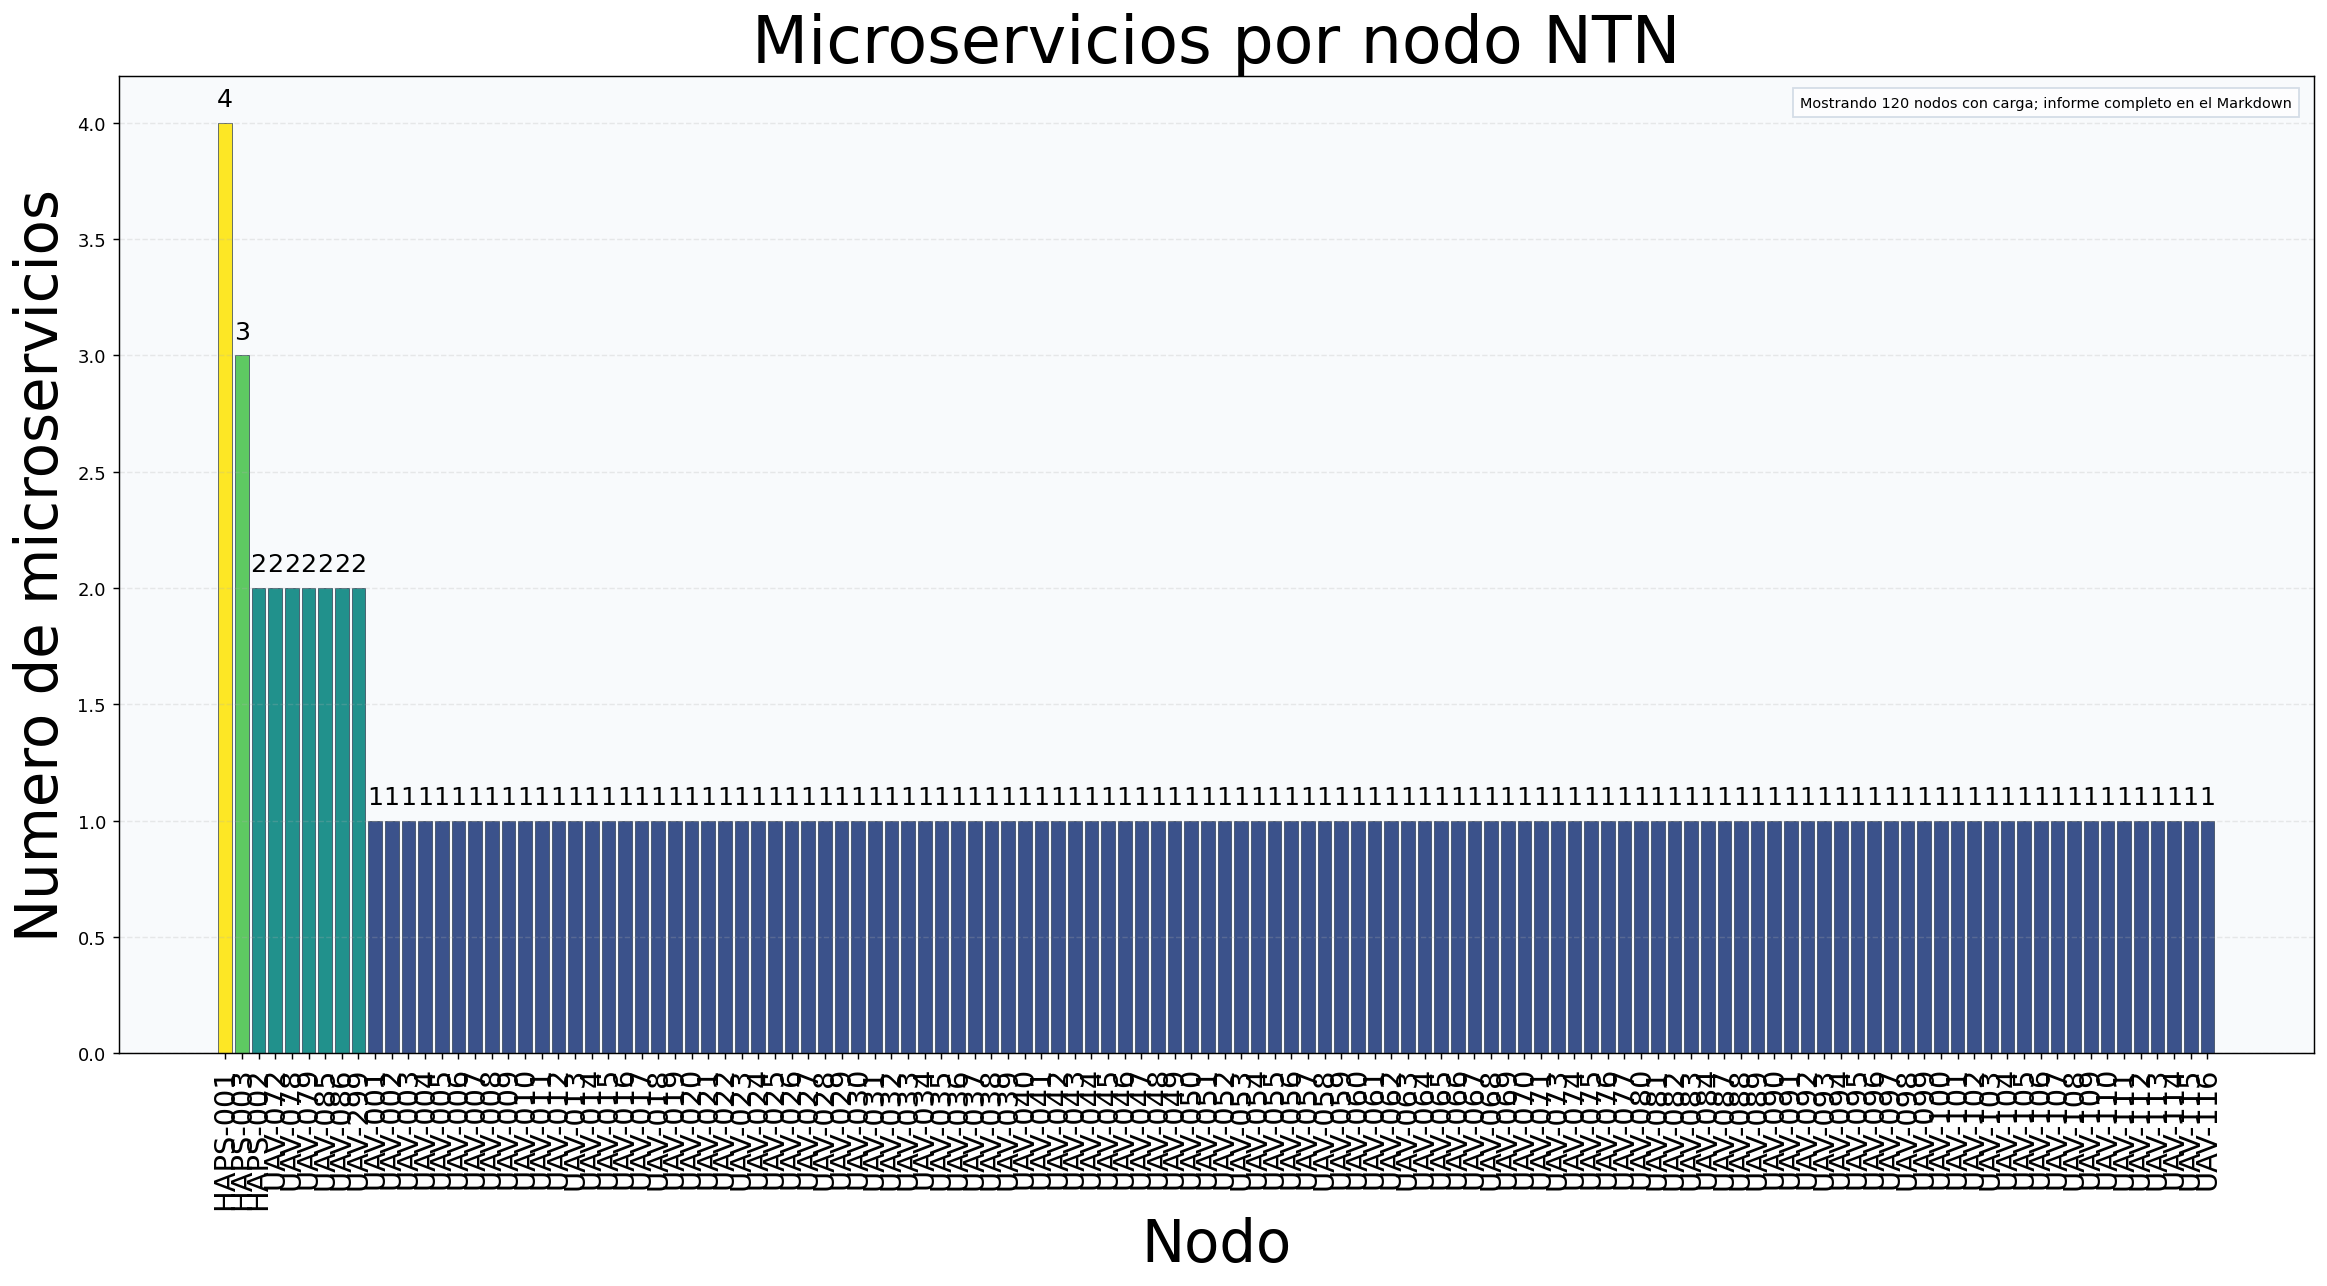
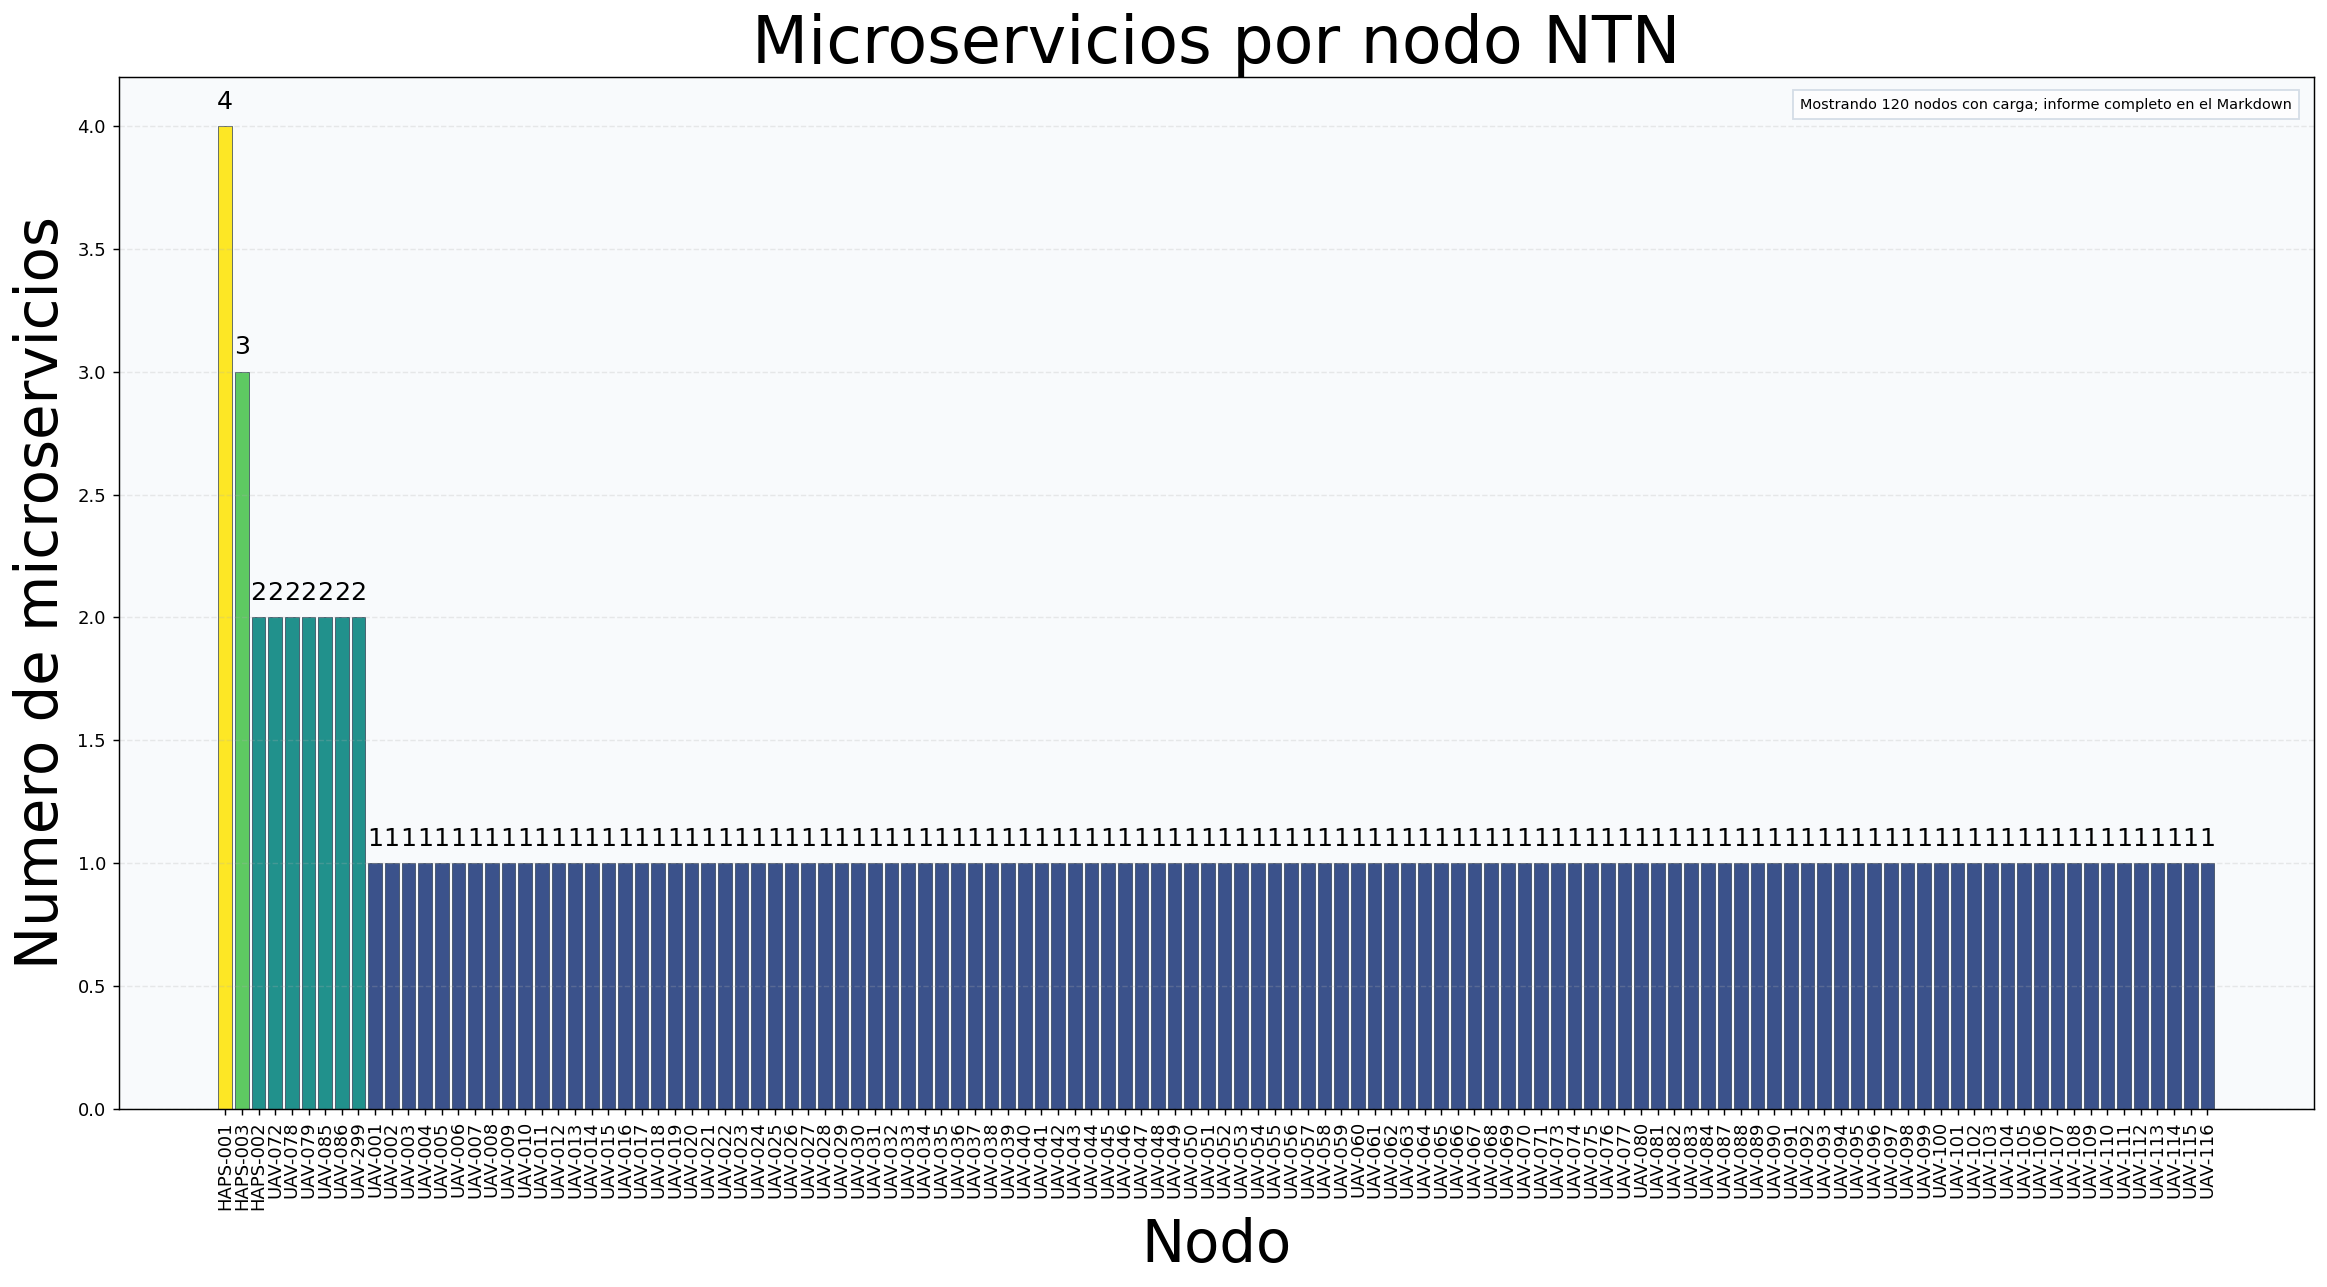
Reducido el tamaño de letra de los ejes x para que no se solapen

diff --git a/src/random_placement.py b/src/random_placement.py
@@ -276,7 +276,7 @@ def save_placement_plot(graph: NTNGraph, result: PlacementResult, output_path: P
     ax.set_xlabel("Nodo", fontsize=32)
     ax.set_ylabel("Numero de microservicios", fontsize=32)
     ax.set_xticks(range(len(top_nodes)))
-    ax.set_xticklabels(labels, rotation=90, fontsize=16)
+    ax.set_xticklabels(labels, rotation=90, fontsize=10)
     ax.grid(axis="y", linestyle="--", alpha=0.25)
 
     for index, value in enumerate(values):